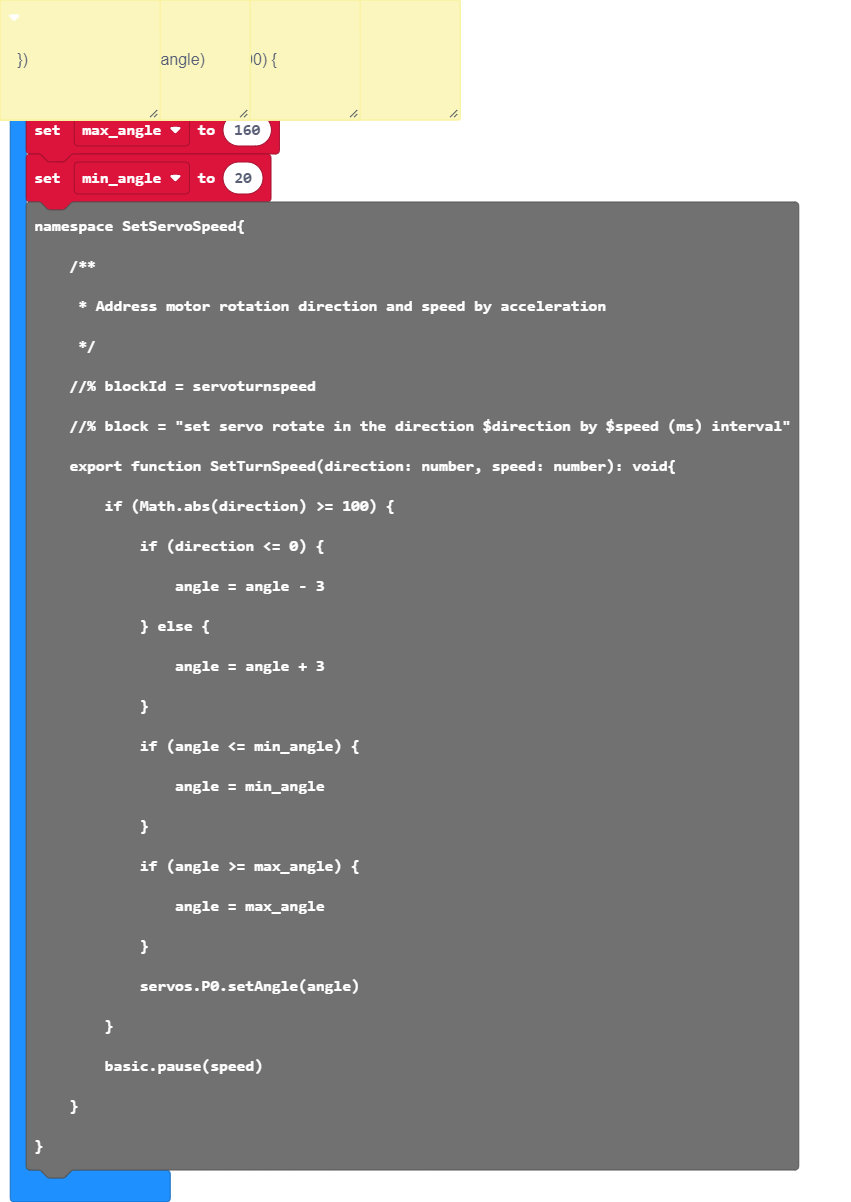
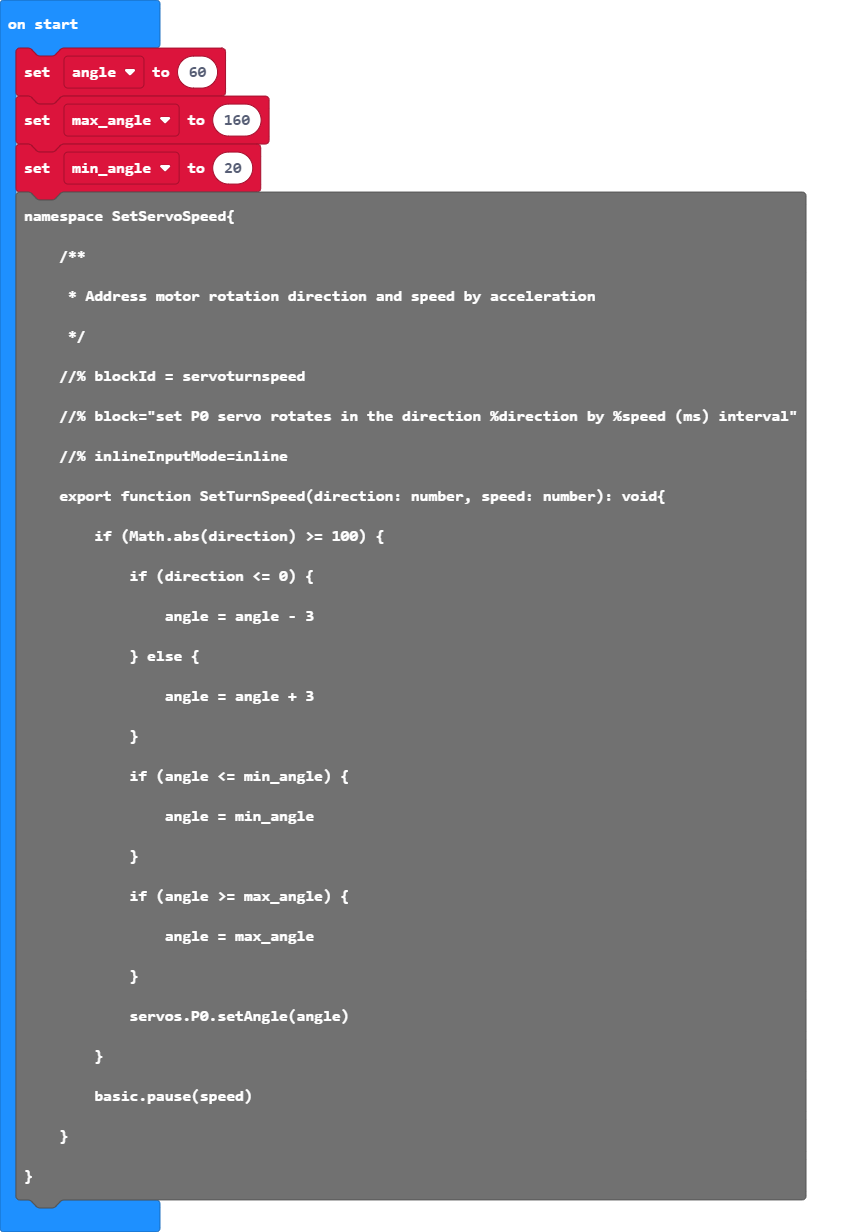
add servo init at block

diff --git a/main.ts b/main.ts
@@ -1,6 +1,8 @@
 let angle = 60
 let max_angle = 160
 let min_angle = 20
+servos.P0.setAngle(angle)
+
 namespace SetServoSpeed{
     /**
      * Address motor rotation direction and speed by acceleration
